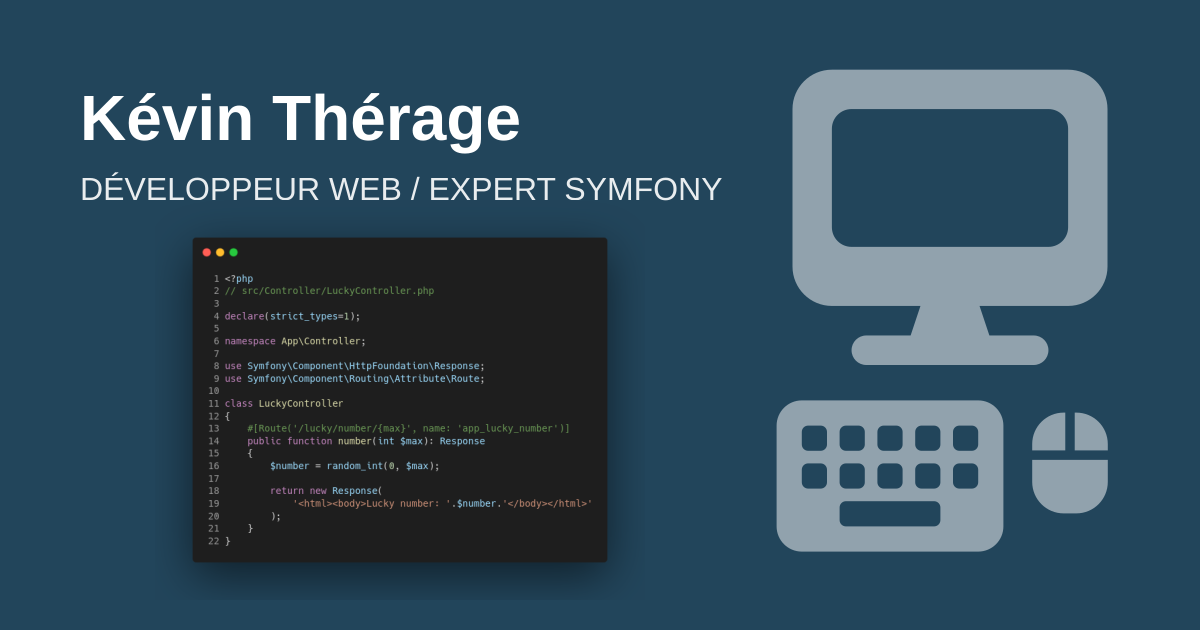
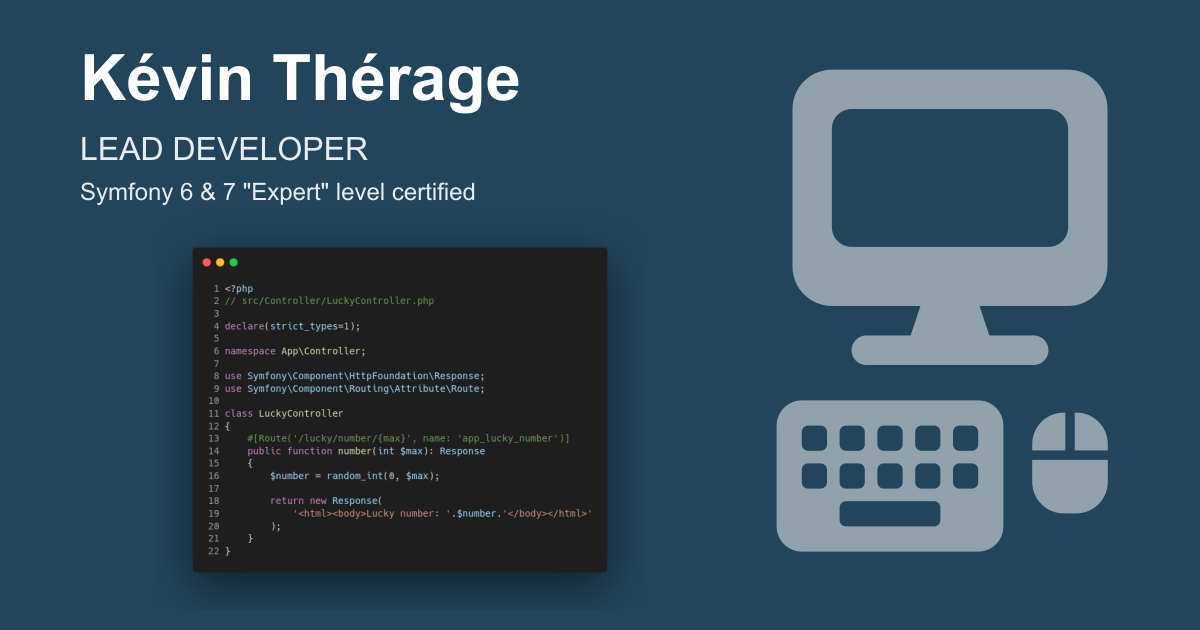
fix(og-image): use cover.image for bannière, add repo callout with octocat, responsive navbar/social, a11y
- metatags/home: fallback page.cover.image -> 1200x630 for blog (fix bannière social)
- frontmatter repository attribute + translations + layout octocat SVG (real mark) + neutral CSS
- navbar collapsible burger (navbar-expand-md), avoid line breaks, a11y aria-current/aria-label
- home social grid responsive 2/3 per line on mobile, keep fa-4x on desktop
- rename blog slugs without date per convention, update AGENTS.md/Makefile, rebuild

Changed region(s): [[0.0617, 0.0603, 0.6167, 0.3317], [0.1542, 0.3619, 0.5242, 0.8444], [0.1542, 0.8143, 0.5242, 0.9349]]

diff --git a/assets/css/style.css b/assets/css/style.css
@@ -235,9 +235,150 @@ a:hover {
     color: white !important;
 }
 
-/* Social links in home page */
+/* Repository callout – frontmatter `repository` (discret, sans couleur, proéminent) */
+.repo-callout {
+    display: flex;
+    align-items: center;
+    gap: 1rem;
+    padding: 1rem 1.25rem;
+    margin-bottom: 2rem;
+    border: 1px solid var(--bs-border-color);
+    border-radius: 0.75rem;
+    background-color: var(--bs-body-bg);
+    box-shadow: 0 2px 10px rgba(0, 0, 0, 0.06);
+    font-size: var(--text-lg); /* 18px – plus grand que base */
+    line-height: var(--leading-snug);
+}
+
+.repo-callout-icon {
+    flex-shrink: 0;
+    display: flex;
+    align-items: center;
+    justify-content: center;
+    color: var(--bs-body-color);
+}
+
+.repo-callout-icon svg {
+    width: 32px;
+    height: 32px;
+    fill: currentColor;
+}
+
+.repo-callout-text {
+    flex: 1;
+    min-width: 0;
+}
+
+.repo-callout-text a {
+    word-break: break-all;
+}
+
+@media (max-width: 768px) {
+    .repo-callout {
+        font-size: var(--text-base);
+        padding: 0.875rem 1rem;
+        gap: 0.875rem;
+    }
+    .repo-callout-icon svg {
+        width: 28px;
+        height: 28px;
+    }
+}
+
+@media (max-width: 480px) {
+    .repo-callout {
+        align-items: flex-start;
+        gap: 0.75rem;
+        padding: 0.75rem 0.875rem;
+        font-size: var(--text-sm);
+    }
+    .repo-callout-icon {
+        padding-top: 0.15rem;
+    }
+    .repo-callout-icon svg {
+        width: 24px;
+        height: 24px;
+    }
+    .repo-callout-text {
+        line-height: 1.45;
+    }
+    .repo-callout-text a {
+        overflow-wrap: anywhere;
+    }
+}
+
+/* Social links in home page – responsive 2×2 / 3×3 (desktop identique: fa-4x, 150px) */
+.social-links .social-link {
+    min-height: 150px;
+    border: 1px solid transparent;
+    border-radius: 0.75rem;
+    transition: background-color 0.15s, border-color 0.15s;
+}
+
+.social-links .social-link:hover {
+    background-color: var(--bs-tertiary-bg);
+    border-color: var(--bs-border-color);
+    text-decoration: none !important;
+}
+
+.social-links .social-link i {
+    font-size: 4em; /* fa-4x – identique grand écran */
+    margin-bottom: 0.5rem;
+    line-height: 1;
+}
+
+.social-links .social-link span {
+    font-size: 0.8125rem;
+    font-weight: 600;
+    line-height: 1.2;
+    word-break: break-word;
+}
+
+@media (max-width: 768px) {
+    .social-links .social-link {
+        min-height: 110px;
+    }
+    .social-links .social-link i {
+        font-size: 2.5rem;
+    }
+}
+
+@media (max-width: 480px) {
+    .social-links .social-link {
+        min-height: 96px;
+        padding-top: 0.75rem !important;
+        padding-bottom: 0.75rem !important;
+    }
+    .social-links .social-link i {
+        font-size: 2rem;
+    }
+    .social-links .social-link span {
+        font-size: 0.75rem;
+    }
+}
+
 .social-links a {
     color: var(--link-color) !important;
+}
+
+/* Navbar – avoid line breaks, burger handles mobile */
+.navbar-toggler {
+    border-color: var(--bs-border-color);
+}
+
+.navbar-toggler-icon {
+    background-image: var(--bs-navbar-toggler-icon-bg);
+}
+
+@media (max-width: 767.98px) {
+    .navbar-collapse .nav-link {
+        padding-top: 0.625rem;
+        padding-bottom: 0.625rem;
+        border-bottom: 1px solid var(--bs-border-color);
+    }
+    .navbar-collapse .nav-item:last-child .nav-link {
+        border-bottom: 0;
+    }
 }
 
 /* Scroll offset for sticky header (so anchor links & TOC clicks don't hide titles) */

diff --git a/AGENTS.md b/AGENTS.md
@@ -3,19 +3,37 @@
 **ALWAYS** stay within current working directory. Never navigate outside project root.
 
 ## Commands
-- Build: `php cecil.phar build`
+- Build: `php cecil.phar clear && php cecil.phar build`
 - Dev server: `php cecil.phar serve --config=cecil.dev.yml`
 - Clear cache: `php cecil.phar clear`
+- Update Cecil: `php cecil.phar self-update`
 
 ## Structure
-- `pages/blog/YYYY-MM-DD_slug.md` - Blog posts
+- `pages/blog/slug.md` - Blog posts (no date in filename)
+- `pages/blog/slug.fr.md` - French translation (same slug)
 - `pages/legal.md` - Legal page
 - `layouts/` - Twig templates
 - `assets/img/` - Images
 
 ## Content
-Frontmatter required: `title`, `description`, `cover`, `published`, `tags`, `excerpt`
+Frontmatter required: `title`, `date` (YYYY-MM-DD), `description`, `cover`, `published`, `tags`, `excerpt`
+Optional: `updated`, `slug`
+
+## Conventions
+- Blog URLs are `:slug/` with **no date** (e.g. `/blog/slug/`); slug uses hyphens, never underscores.
+- Keep the en/fr versions in sync (same slug, date, tags).
+- Posts are sorted by `date` descending (`sort_by_date`); set `updated` when edited.
+- Verify after content changes: rebuild, then check `_site/blog/` (URLs without date, desc date order, RSS).
 
 ## Stack
-- Cecil v8.x, Twig, Bootstrap 5.3.7, Font Awesome 6.7.2, Highlight.js 11.11.1
+- Cecil v8.x (8.117.1), Twig, Bootstrap 5.3.7, Font Awesome 6.7.2, Highlight.js 11.11.1
 - PHP 8.5, Docker, Docker Compose
+
+## Social announcements
+When a **new** article is created (both `pages/blog/<slug>.md` and `pages/blog/<slug>.fr.md`) **and** deployed:
+- Wait for the GitHub Pages deploy to finish first: after pushing to `main`, check the `Deploy Cecil site to GitHub Pages` workflow succeeded (`gh run list --workflow=deploy.yml` / `gh run watch`), then verify the live URL responds.
+- Then announce the article on X, Bluesky, LinkedIn and Mastodon — in French **and** English (one post per language per platform).
+- Post content: a catchy one-liner hook about the article (not just its title) in a **professional tone** — clear, factual, no hype or clickbait, no emojis — then the link `https://ktherage.github.io/blog/<slug>/`, plus hashtags from the tags. Keep each platform's character limit.
+- Use the browser MCP to publish (X: compose/post dialog; Bluesky/Mastodon/LinkedIn: their web composers).
+- If the browser MCP is not connected, or a platform requires login or blocks with an auth challenge (2FA, verification code, captcha), stop, tell the user what is blocking and **wait** for explicit go-ahead — never attempt to handle credentials or codes alone.
+- Announce only once per article; never announce drafts (`published: false`).

diff --git a/pages/blog/building-a-rag-powered-code-review-assistant.fr.md b/pages/blog/building-a-rag-powered-code-review-assistant.fr.md
@@ -1,5 +1,7 @@
 ---
 title: "Construire un assistant de code review RAG avec PHP, Ollama et Qdrant"
+date: 2026-08-10
+canonical_url: "https://ktherage.github.io/fr/blog/building-a-rag-powered-code-review-assistant/"
 description: "Comment j'ai transformé 20 ans de code reviews Symfony en assistant IA local avec PHP, Ollama et Qdrant — sans GPU."
 cover:
   image: "img/pexels-cottonbro-6153344.jpg"
@@ -7,6 +9,7 @@ cover:
   caption: "Photo par <a href=\"https://www.pexels.com/fr-fr/@cottonbro/\">cottonbro studio</a> sur <a href=\"https://www.pexels.com\">Pexels</a>"
 published: true
 tags: [AI, Symfony, PHP, RAG, MCP, LLM, Ollama, Qdrant]
+repository: "https://github.com/ktherage/symfony-review-mcp"
 excerpt: >-
   Demandez à un LLM de review votre code et vous obtiendrez des conseils génériques. Donnez-lui
   10 000 code reviews du Core Symfony en référence — et il produira des reviews qui sonnent comme

diff --git a/pages/blog/building-a-rag-powered-code-review-assistant.md b/pages/blog/building-a-rag-powered-code-review-assistant.md
@@ -1,5 +1,6 @@
 ---
 title: "Building a RAG-Powered Code Review Assistant with PHP, Ollama, and Qdrant"
+date: 2026-08-10
 description: "How I turned 20 years of Symfony code reviews into a local AI assistant with PHP, Ollama, and Qdrant — no GPU required."
 cover:
   image: "img/pexels-cottonbro-6153344.jpg"
@@ -7,6 +8,7 @@ cover:
   caption: "Photo by <a href=\"https://www.pexels.com/@cottonbro/\">cottonbro studio</a> on <a href=\"https://www.pexels.com\">Pexels</a>"
 published: true
 tags: [AI, Symfony, PHP, RAG, MCP, LLM, Ollama, Qdrant]
+repository: "https://github.com/ktherage/symfony-review-mcp"
 excerpt: >-
   Ask an LLM to review your code and you'll get generic advice. Give it 10,000 Symfony Core code reviews
   as reference — and it'll produce reviews that sound like nicolas-grekas and stof reviewed your PR.

diff --git a/pages/blog/ubuntu-25-10-docker-java-cgroupv2-crash.fr.md b/pages/blog/ubuntu-25-10-docker-java-cgroupv2-crash.fr.md
@@ -1,5 +1,6 @@
 ---
 title: "Ubuntu 25.10 : La mise à jour qui a brické mes conteneurs Docker Java"
+date: 2026-04-28
 description: "Comment une simple mise à jour Ubuntu a fait planter mes conteneurs Selenium, et pourquoi le NullPointerException de cgroupv2 est le symptôme d'un problème de compatibilité entre le noyau Linux et les anciennes versions de Java."
 cover:
   image: "img/pexels-docker-port.jpg"

diff --git a/pages/blog/gitignore-blacklisting-whitelisting.fr.md b/pages/blog/gitignore-blacklisting-whitelisting.fr.md
@@ -1,5 +1,6 @@
 ---
 title: "Déboguer le .gitignore de Git : Pourquoi la liste blanche dans les sous-répertoires échoue"
+date: 2026-03-25
 description: "Une plongée dans les règles de traversée des répertoires du .gitignore et comment éviter les pièges courants lors de la mise en liste blanche de fichiers dans les sous-répertoires."
 cover:
   image: "img/pexels-photo-577585.jpeg"

diff --git a/pages/blog/dealing-with-isolated-phpstan-1-and-the-phpunit-13-blindspot.fr.md b/pages/blog/dealing-with-isolated-phpstan-1-and-the-phpunit-13-blindspot.fr.md
@@ -1,5 +1,6 @@
 ---
 title: "Gérer l'isolation de PHPStan 1 et l'angle mort de PHPUnit 13"
+date: 2026-05-29
 description: "Comment l'isolation de vos outils de QA peut causer des erreurs fantômes 'unknown class TestCase' après une mise à jour vers PHPUnit 13, et comment la version 2.0 de PHPStan résout le problème."
 cover:
   image: "img/pexels-puzzle-missing-piece.jpg"

diff --git a/pages/blog/ubuntu-25-10-docker-java-cgroupv2-crash.md b/pages/blog/ubuntu-25-10-docker-java-cgroupv2-crash.md
@@ -1,5 +1,6 @@
 ---
 title: "Ubuntu 25.10: The Update That Bricked My Java Docker Containers"
+date: 2026-04-28
 description: "How a simple Ubuntu update crashed my Selenium containers, and why the cgroupv2 NullPointerException is a symptom of a compatibility issue between the Linux kernel and legacy Java versions."
 cover:
   image: "img/pexels-docker-port.jpg"

diff --git a/pages/blog/le-cache-qui-ne-fonctionnait-pas.fr.md b/pages/blog/le-cache-qui-ne-fonctionnait-pas.fr.md
@@ -1,5 +1,6 @@
 ---
 title: "Le cache qui ne fonctionnait pas : une histoire de sérialisation chez Symfony"
+date: 2026-06-10
 description: "Comment une Closure dans getInfo(), une exception silencieuse, et une valeur de retour non vérifiée ont créé un faux succès parfait."
 cover:
   image: "img/pexels-black-hole-23522813.jpeg"

diff --git a/pages/blog/dealing-with-isolated-phpstan-1-and-the-phpunit-13-blindspot.md b/pages/blog/dealing-with-isolated-phpstan-1-and-the-phpunit-13-blindspot.md
@@ -1,5 +1,6 @@
 ---
 title: "Dealing with Isolated PHPStan 1 and the PHPUnit 13 Blindspot"
+date: 2026-05-29
 description: "How isolating your QA tools can cause phantom 'unknown class TestCase' errors after upgrading to PHPUnit 13, and how upgrading to PHPStan 2.0 solves it."
 cover:
   image: "img/pexels-puzzle-missing-piece.jpg"

diff --git a/pages/blog/gitignore-blacklisting-whitelisting.md b/pages/blog/gitignore-blacklisting-whitelisting.md
@@ -1,5 +1,6 @@
 ---
 title: "Debugging Git's .gitignore: Why Whitelisting Files in Subdirectories Fails"
+date: 2026-03-25
 description: "A deep dive into Git's .gitignore directory traversal rules and how to avoid common pitfalls when whitelisting files in subdirectories."
 cover:
   image: "img/pexels-photo-577585.jpeg"

diff --git a/pages/blog/symfony-and-doctrine-migrations-validation-in-ci.fr.md b/pages/blog/symfony-and-doctrine-migrations-validation-in-ci.fr.md
@@ -1,5 +1,6 @@
 ---
 title: "Symfony & Doctrine Migrations : Validation en CI"
+date: 2024-09-05
 description: "Comment détecter qu'un changement d'entité Doctrine est livré sans migration générée : un check CI simple qui échoue vite sur une incohérence schéma/mapping."
 cover:
   image: "img/birds-migration.jpg"
